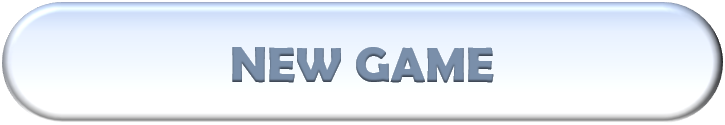
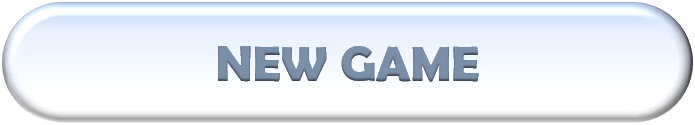
Refactor and update button design for other menu buttons

diff --git a/src/main/java/seedu/fractal/component/menu/button/MenuButton.java b/src/main/java/seedu/fractal/component/menu/button/MenuButton.java
@@ -1,0 +1,63 @@
+package seedu.fractal.component.menu.button;
+
+import javafx.scene.control.Button;
+import javafx.scene.effect.BlurType;
+import javafx.scene.effect.ColorAdjust;
+import javafx.scene.effect.DropShadow;
+import javafx.scene.effect.InnerShadow;
+import javafx.scene.image.Image;
+import javafx.scene.input.MouseEvent;
+import javafx.scene.layout.*;
+import javafx.scene.paint.Color;
+import seedu.fractal.storage.FilePath;
+
+public class MenuButton extends Button {
+
+    /**
+     * Constructor for a custom menu button.
+     */
+    public MenuButton() {
+        super();
+
+        initialiseStyle();
+        initialiseEvents();
+    }
+
+    private void initialiseStyle() {
+        getStylesheets().add(getClass().getResource(FilePath.MENU_STYLE_PATH).toExternalForm());
+        getStyleClass().add("menu-button");
+    }
+
+    private void initialiseEvents() {
+        setOnMouseEntered(this::onHover);
+        setOnMouseExited(this::onUnhover);
+        setOnMousePressed(this::onClick);
+    }
+
+    private void onHover(MouseEvent mouseEvent) {
+        setEffect(new DropShadow(BlurType.THREE_PASS_BOX, Color.rgb(99, 133, 171), 10, 0, 0, 0));
+    }
+
+    private void onUnhover(MouseEvent mouseEvent) {
+        reset();
+    }
+
+    private void onClick(MouseEvent mouseEvent) {
+        setEffect(new ColorAdjust(0, 0, -0.05, 0));
+    }
+
+    protected void reset() {
+        setEffect(null);
+    }
+
+    protected void setButtonBackground(String imagePath) {
+        Image image = new Image(imagePath, getWidth(), getHeight(), false, true, true);
+        BackgroundImage background = new BackgroundImage(
+                image, BackgroundRepeat.NO_REPEAT, BackgroundRepeat.NO_REPEAT, BackgroundPosition.CENTER,
+                new BackgroundSize(getWidth(), getHeight(), true, true, true, false));
+        setBackground(new Background(background));
+    }
+
+
+
+}

diff --git a/src/main/java/seedu/fractal/controller/MenuController.java b/src/main/java/seedu/fractal/controller/MenuController.java
@@ -5,9 +5,7 @@ import javafx.fxml.Initializable;
 import javafx.scene.control.Label;
 import javafx.scene.layout.GridPane;
 import javafx.scene.layout.VBox;
-import seedu.fractal.component.menu.ContinueButton;
-import seedu.fractal.component.menu.MenuButton;
-import seedu.fractal.component.menu.NewGameButton;
+import seedu.fractal.component.menu.button.*;
 import seedu.fractal.component.menu.newGamePopupBoxFiller;
 import seedu.fractal.storage.FilePath;
 import seedu.fractal.util.SceneUtil;
@@ -51,11 +49,12 @@ public class MenuController implements Initializable {
         popupPane.setVisible(false);
         fillPopupBoxes();
 
-        MenuButton newGameButton = new NewGameButton("NEW GAME", menuPane, popupPane);
-        MenuButton continueButton = new ContinueButton("CONTINUE");
-        MenuButton helpButton = new MenuButton("HOW TO PLAY");
-        MenuButton aboutButton = new MenuButton("ABOUT");
+        MenuButton newGameButton = new NewGameButton(menuPane, popupPane);
+        MenuButton continueButton = new ContinueButton();
+        MenuButton helpButton = new HelpButton();
+        MenuButton aboutButton = new AboutButton();
 
+        continueButton.setDisable(true);
         helpButton.setDisable(true);
         aboutButton.setDisable(true);
 

diff --git a/src/main/java/seedu/fractal/component/menu/button/PlayButton.java b/src/main/java/seedu/fractal/component/menu/button/PlayButton.java
@@ -1,8 +1,9 @@
-package seedu.fractal.component.menu;
+package seedu.fractal.component.menu.button;
 
 import javafx.scene.control.Spinner;
 import javafx.scene.input.MouseEvent;
 import javafx.scene.layout.GridPane;
+import seedu.fractal.component.menu.DifficultySlider;
 import seedu.fractal.controller.GameController;
 import seedu.fractal.storage.FilePath;
 import seedu.fractal.util.SceneUtil;
@@ -14,11 +15,17 @@ public class PlayButton extends MenuButton {
     private DifficultySlider difficultySlider;
     private Spinner<Integer> spinner;
 
-    public PlayButton(String name, DifficultySlider difficultySlider, Spinner<Integer> spinner) {
-        super(name);
+    public PlayButton(DifficultySlider difficultySlider, Spinner<Integer> spinner) {
+        super();
         this.difficultySlider = difficultySlider;
         this.spinner = spinner;
+
+        initialiseStyle();
         initialiseEvents();
+    }
+
+    private void initialiseStyle() {
+        setButtonBackground(FilePath.PLAY_BUTTON_IMAGE_PATH);
     }
 
     private void initialiseEvents() {

diff --git a/src/main/java/seedu/fractal/component/menu/button/NewGameButton.java b/src/main/java/seedu/fractal/component/menu/button/NewGameButton.java
@@ -1,0 +1,35 @@
+package seedu.fractal.component.menu.button;
+
+import javafx.scene.effect.BoxBlur;
+import javafx.scene.input.MouseEvent;
+import javafx.scene.layout.GridPane;
+import seedu.fractal.storage.FilePath;
+
+public class NewGameButton extends MenuButton {
+
+    private GridPane menuPane;
+    private GridPane popupPane;
+
+    public NewGameButton(GridPane menuPane, GridPane popupPane) {
+        super();
+        this.menuPane = menuPane;
+        this.popupPane = popupPane;
+
+        initialiseStyle();
+        initialiseEvents();
+    }
+
+    private void initialiseStyle() {
+        setButtonBackground(FilePath.NEW_GAME_BUTTON_IMAGE_PATH);
+    }
+
+    private void initialiseEvents() {
+        setOnMouseReleased(this::onRelease);
+    }
+
+    private void onRelease(MouseEvent mouseEvent) {
+        reset();
+        popupPane.setVisible(true);
+        menuPane.setEffect(new BoxBlur(5, 5, 3));
+    }
+}

diff --git a/src/main/java/seedu/fractal/component/game/CancelButton.java b/src/main/java/seedu/fractal/component/game/CancelButton.java
@@ -23,15 +23,14 @@ public class CancelButton extends Button {
      */
     public void activate() {
         canMatch = true;
-        getStyleClass().clear();
-        getStyleClass().add("cancel-button");
+        setDisable(false);
     }
 
     private void initialiseStyle() {
         setText("CANCEL");
         getStylesheets().add(getClass().getResource(FilePath.GAME_STYLE_PATH).toExternalForm());
-        getStyleClass().add("unactivated-button");
-        reset();
+        getStyleClass().add("cancel-button");
+        setDisable(true);
     }
 
     private void initialiseEvents() {
@@ -50,7 +49,6 @@ public class CancelButton extends Button {
      */
     public void reset() {
         canMatch = false;
-        getStyleClass().clear();
-        getStyleClass().add("unactivated-button");
+        setDisable(true);
     }
 }

diff --git a/src/main/java/seedu/fractal/component/game/MatchButton.java b/src/main/java/seedu/fractal/component/game/MatchButton.java
@@ -23,15 +23,14 @@ public class MatchButton extends Button {
      */
     public void activate() {
         canMatch = true;
-        getStyleClass().clear();
-        getStyleClass().add("match-button");
+        setDisable(false);
     }
 
     private void initialiseStyle() {
         setText("MATCH!");
         getStylesheets().add(getClass().getResource(FilePath.GAME_STYLE_PATH).toExternalForm());
-        getStyleClass().add("unactivated-button");
-        reset();
+        getStyleClass().add("match-button");
+        setDisable(true);
     }
 
     private void initialiseEvents() {
@@ -54,7 +53,6 @@ public class MatchButton extends Button {
      */
     public void reset() {
         canMatch = false;
-        getStyleClass().clear();
-        getStyleClass().add("unactivated-button");
+        setDisable(true);
     }
 }

diff --git a/src/main/java/seedu/fractal/storage/FilePath.java b/src/main/java/seedu/fractal/storage/FilePath.java
@@ -16,6 +16,10 @@ public class FilePath {
     /* Path to Button Images */
     public static final String MENU_BUTTON_IMAGE_PATH = "/images/buttons/menu_button.png";
     public static final String NEW_GAME_BUTTON_IMAGE_PATH = "/images/buttons/new_game_button.png";
+    public static final String CONTINUE_BUTTON_IMAGE_PATH = "/images/buttons/continue_button.png";
+    public static final String HELP_BUTTON_IMAGE_PATH = "/images/buttons/help_button.png";
+    public static final String ABOUT_BUTTON_IMAGE_PATH = "/images/buttons/about_button.png";
+    public static final String PLAY_BUTTON_IMAGE_PATH = "/images/buttons/play_button.png";
 
     /* Path to Card Images */
     public static final String CARD_BACK_IMAGE_PATH = "/images/cards/card_back.png";

diff --git a/src/main/java/seedu/fractal/component/menu/button/ContinueButton.java b/src/main/java/seedu/fractal/component/menu/button/ContinueButton.java
@@ -1,16 +1,20 @@
-package seedu.fractal.component.menu;
+package seedu.fractal.component.menu.button;
 
 import javafx.scene.input.MouseEvent;
-import javafx.scene.layout.VBox;
 import seedu.fractal.storage.FilePath;
 import seedu.fractal.util.SceneUtil;
 
 public class ContinueButton extends MenuButton {
 
-    public ContinueButton(String name) {
-        super(name);
+    public ContinueButton() {
+        super();
 
+        initialiseStyle();
         initialiseEvents();
+    }
+
+    private void initialiseStyle() {
+        setButtonBackground(FilePath.CONTINUE_BUTTON_IMAGE_PATH);
     }
 
     private void initialiseEvents() {

diff --git a/src/main/java/seedu/fractal/component/menu/newGamePopupBoxFiller.java b/src/main/java/seedu/fractal/component/menu/newGamePopupBoxFiller.java
@@ -3,6 +3,7 @@ package seedu.fractal.component.menu;
 import javafx.scene.control.Label;
 import javafx.scene.control.Spinner;
 import javafx.scene.layout.VBox;
+import seedu.fractal.component.menu.button.PlayButton;
 import seedu.fractal.storage.FilePath;
 
 public class newGamePopupBoxFiller {
@@ -54,7 +55,7 @@ public class newGamePopupBoxFiller {
     }
 
     private void fillPlaySection() {
-        PlayButton playButton = new PlayButton("PLAY", difficultySlider, spinner);
+        PlayButton playButton = new PlayButton(difficultySlider, spinner);
         playBox.getChildren().add(playButton);
     }
 

diff --git a/src/main/java/seedu/fractal/component/menu/button/AboutButton.java b/src/main/java/seedu/fractal/component/menu/button/AboutButton.java
@@ -1,0 +1,16 @@
+package seedu.fractal.component.menu.button;
+
+import seedu.fractal.storage.FilePath;
+
+public class AboutButton extends MenuButton{
+
+    public AboutButton() {
+        super();
+
+        initialiseStyle();
+    }
+
+    private void initialiseStyle() {
+        setButtonBackground(FilePath.ABOUT_BUTTON_IMAGE_PATH);
+    }
+}

diff --git a/src/main/java/seedu/fractal/component/menu/button/HelpButton.java b/src/main/java/seedu/fractal/component/menu/button/HelpButton.java
@@ -1,0 +1,17 @@
+package seedu.fractal.component.menu.button;
+
+import seedu.fractal.storage.FilePath;
+
+public class HelpButton extends MenuButton {
+
+    public HelpButton() {
+        super();
+
+        initialiseStyle();
+    }
+
+    private void initialiseStyle() {
+        setButtonBackground(FilePath.HELP_BUTTON_IMAGE_PATH);
+    }
+
+}
